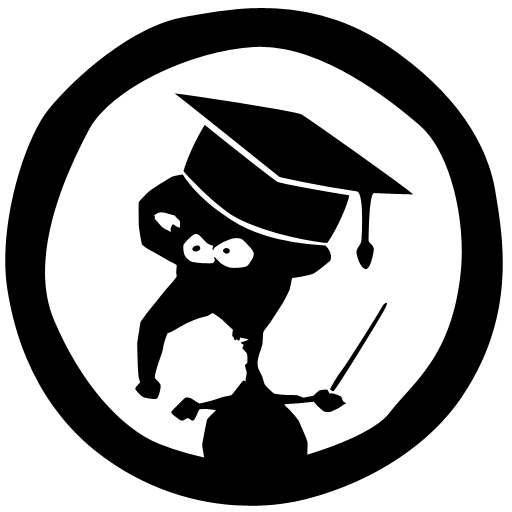
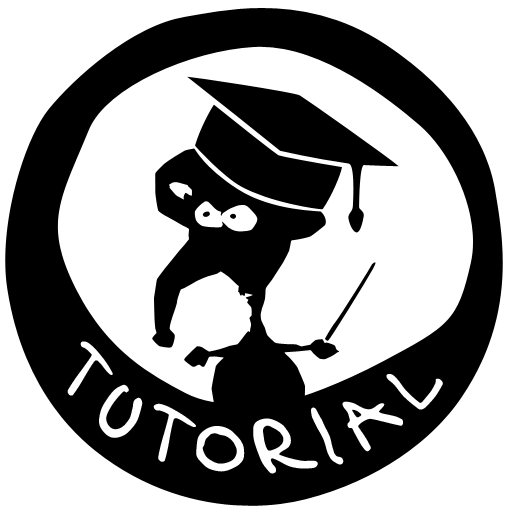
Refine level selection screen
- Use new graphics for 'tutorial' button and make button slightly larger

diff --git a/Classes/LevelSelectionLayer.cpp b/Classes/LevelSelectionLayer.cpp
@@ -13,8 +13,8 @@ void runSwingAction(Node *node)
 };
 
 LevelSelectionLayer::LevelSelectionLayer(bool swingTutorialButton, bool swingCheeseFactoryButton)
-    : menuHelper({{{0.85, 0.92},
-                   0.1,
+    : menuHelper({{{0.845, 0.915},
+                   0.125,
                    "tutorial",
                    {[swingTutorialButton](Node *node) {
                        if (swingTutorialButton) {
